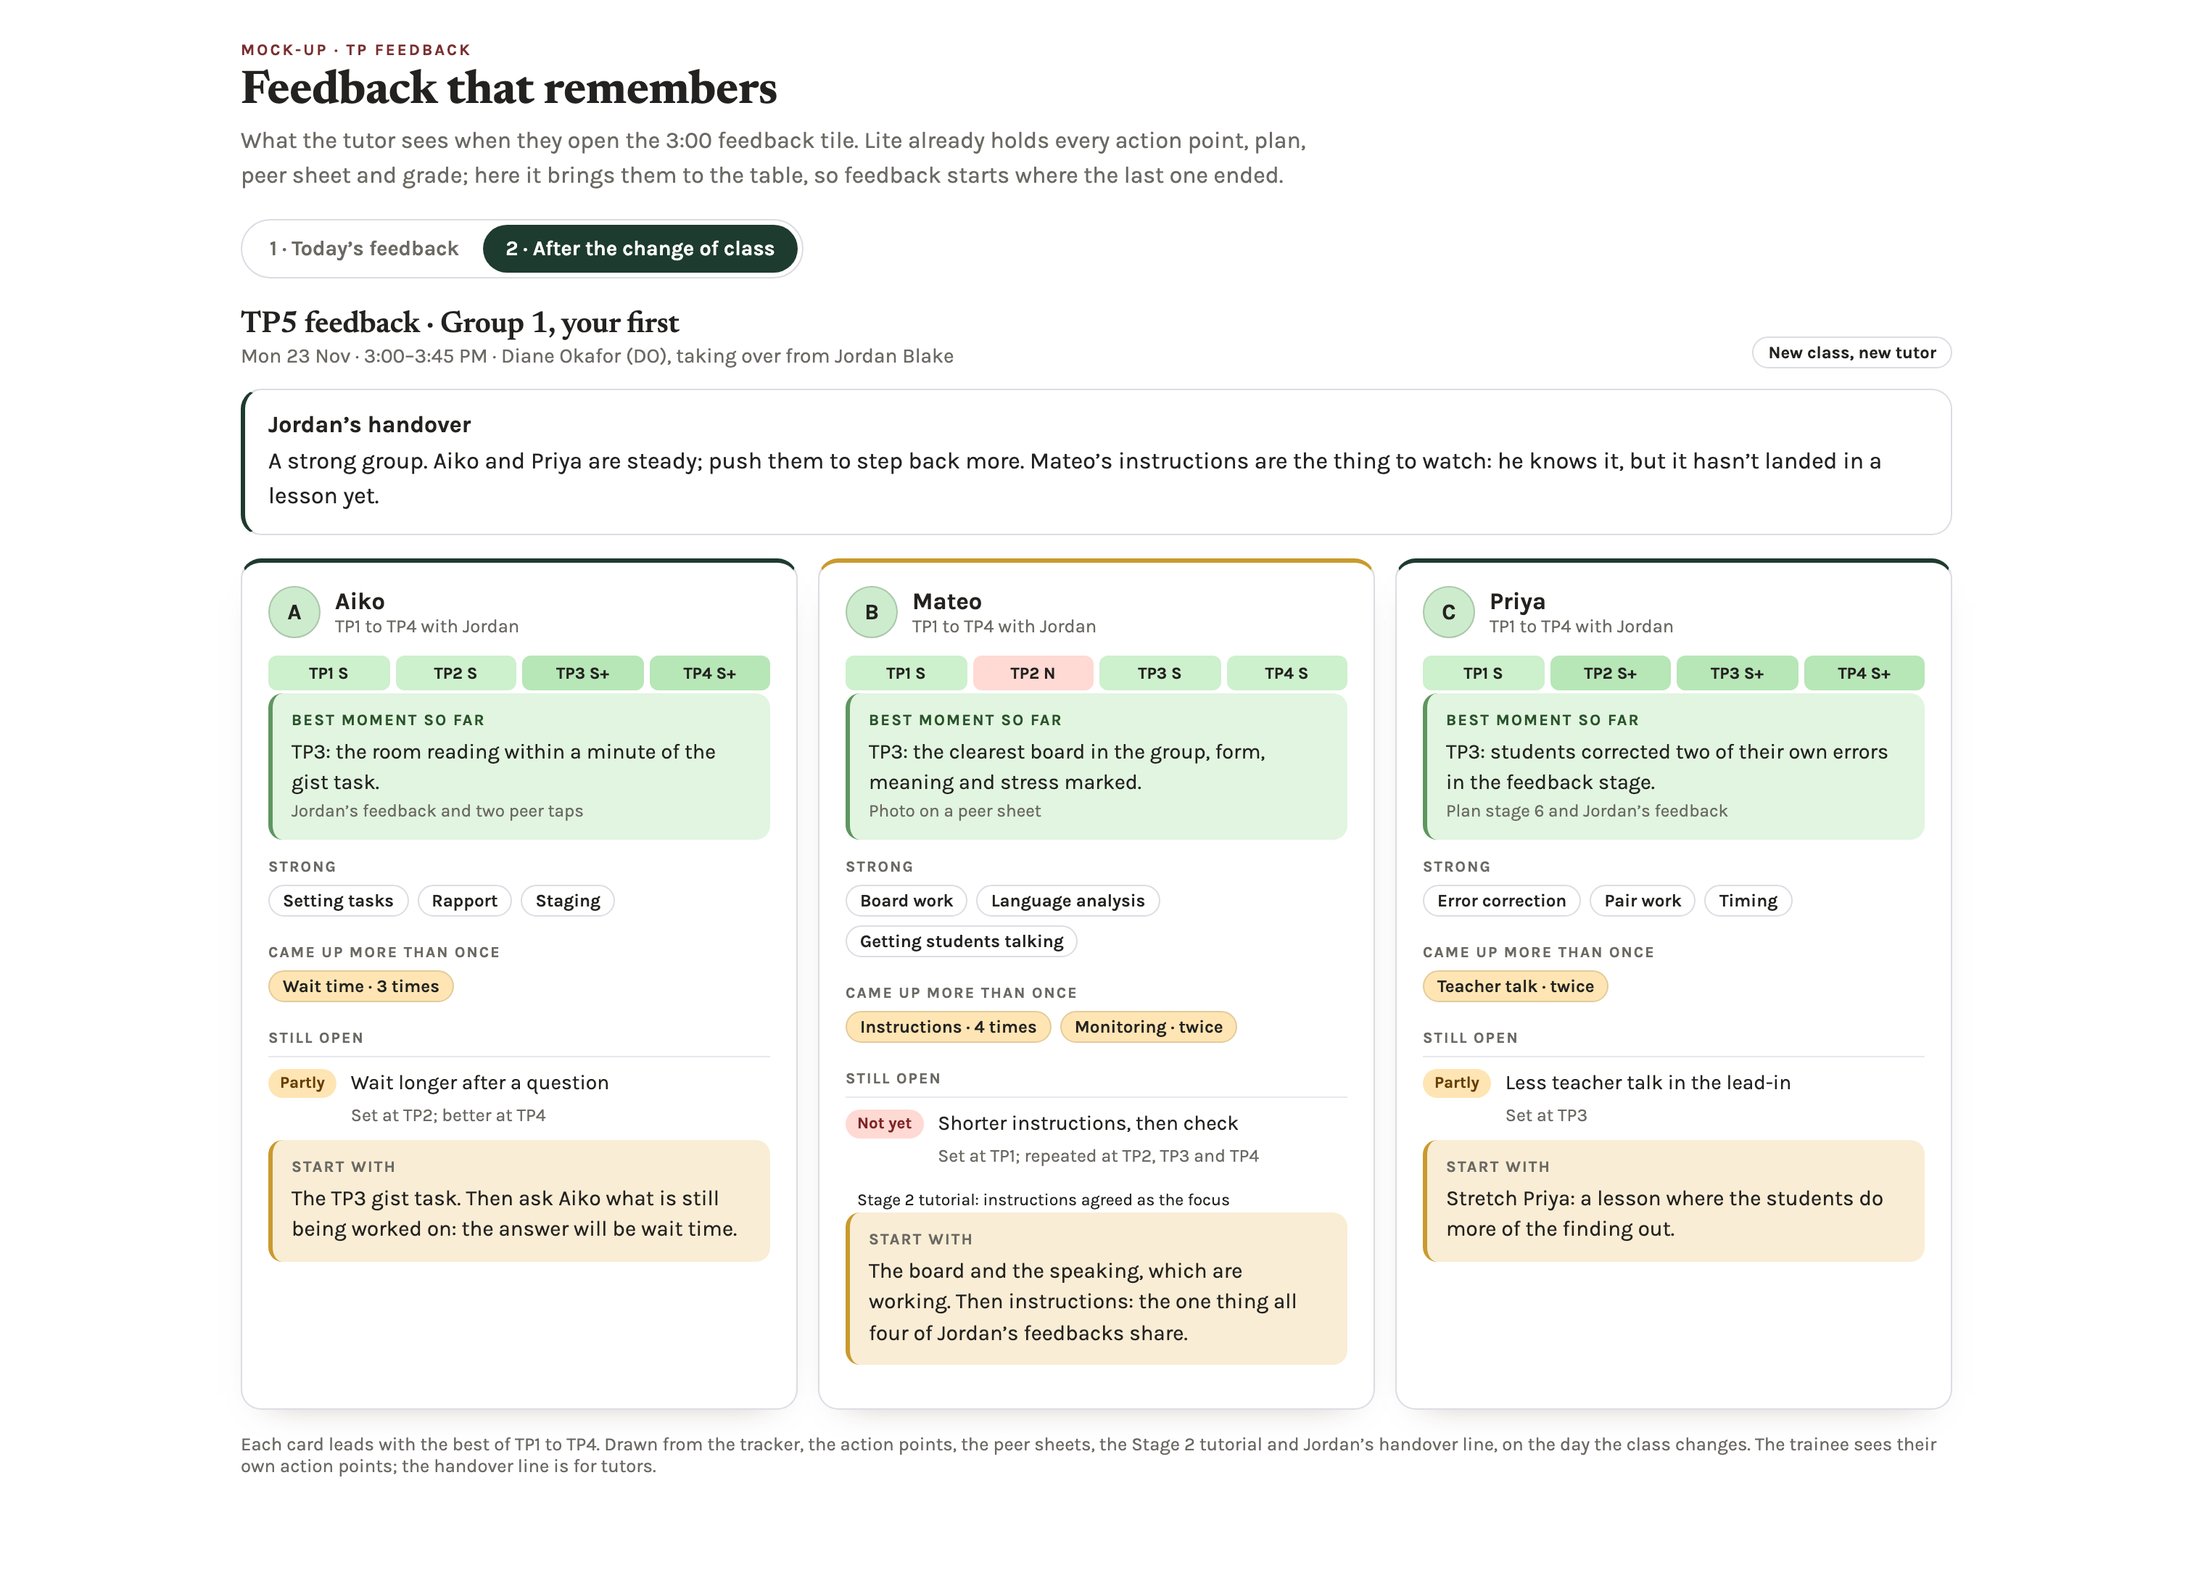
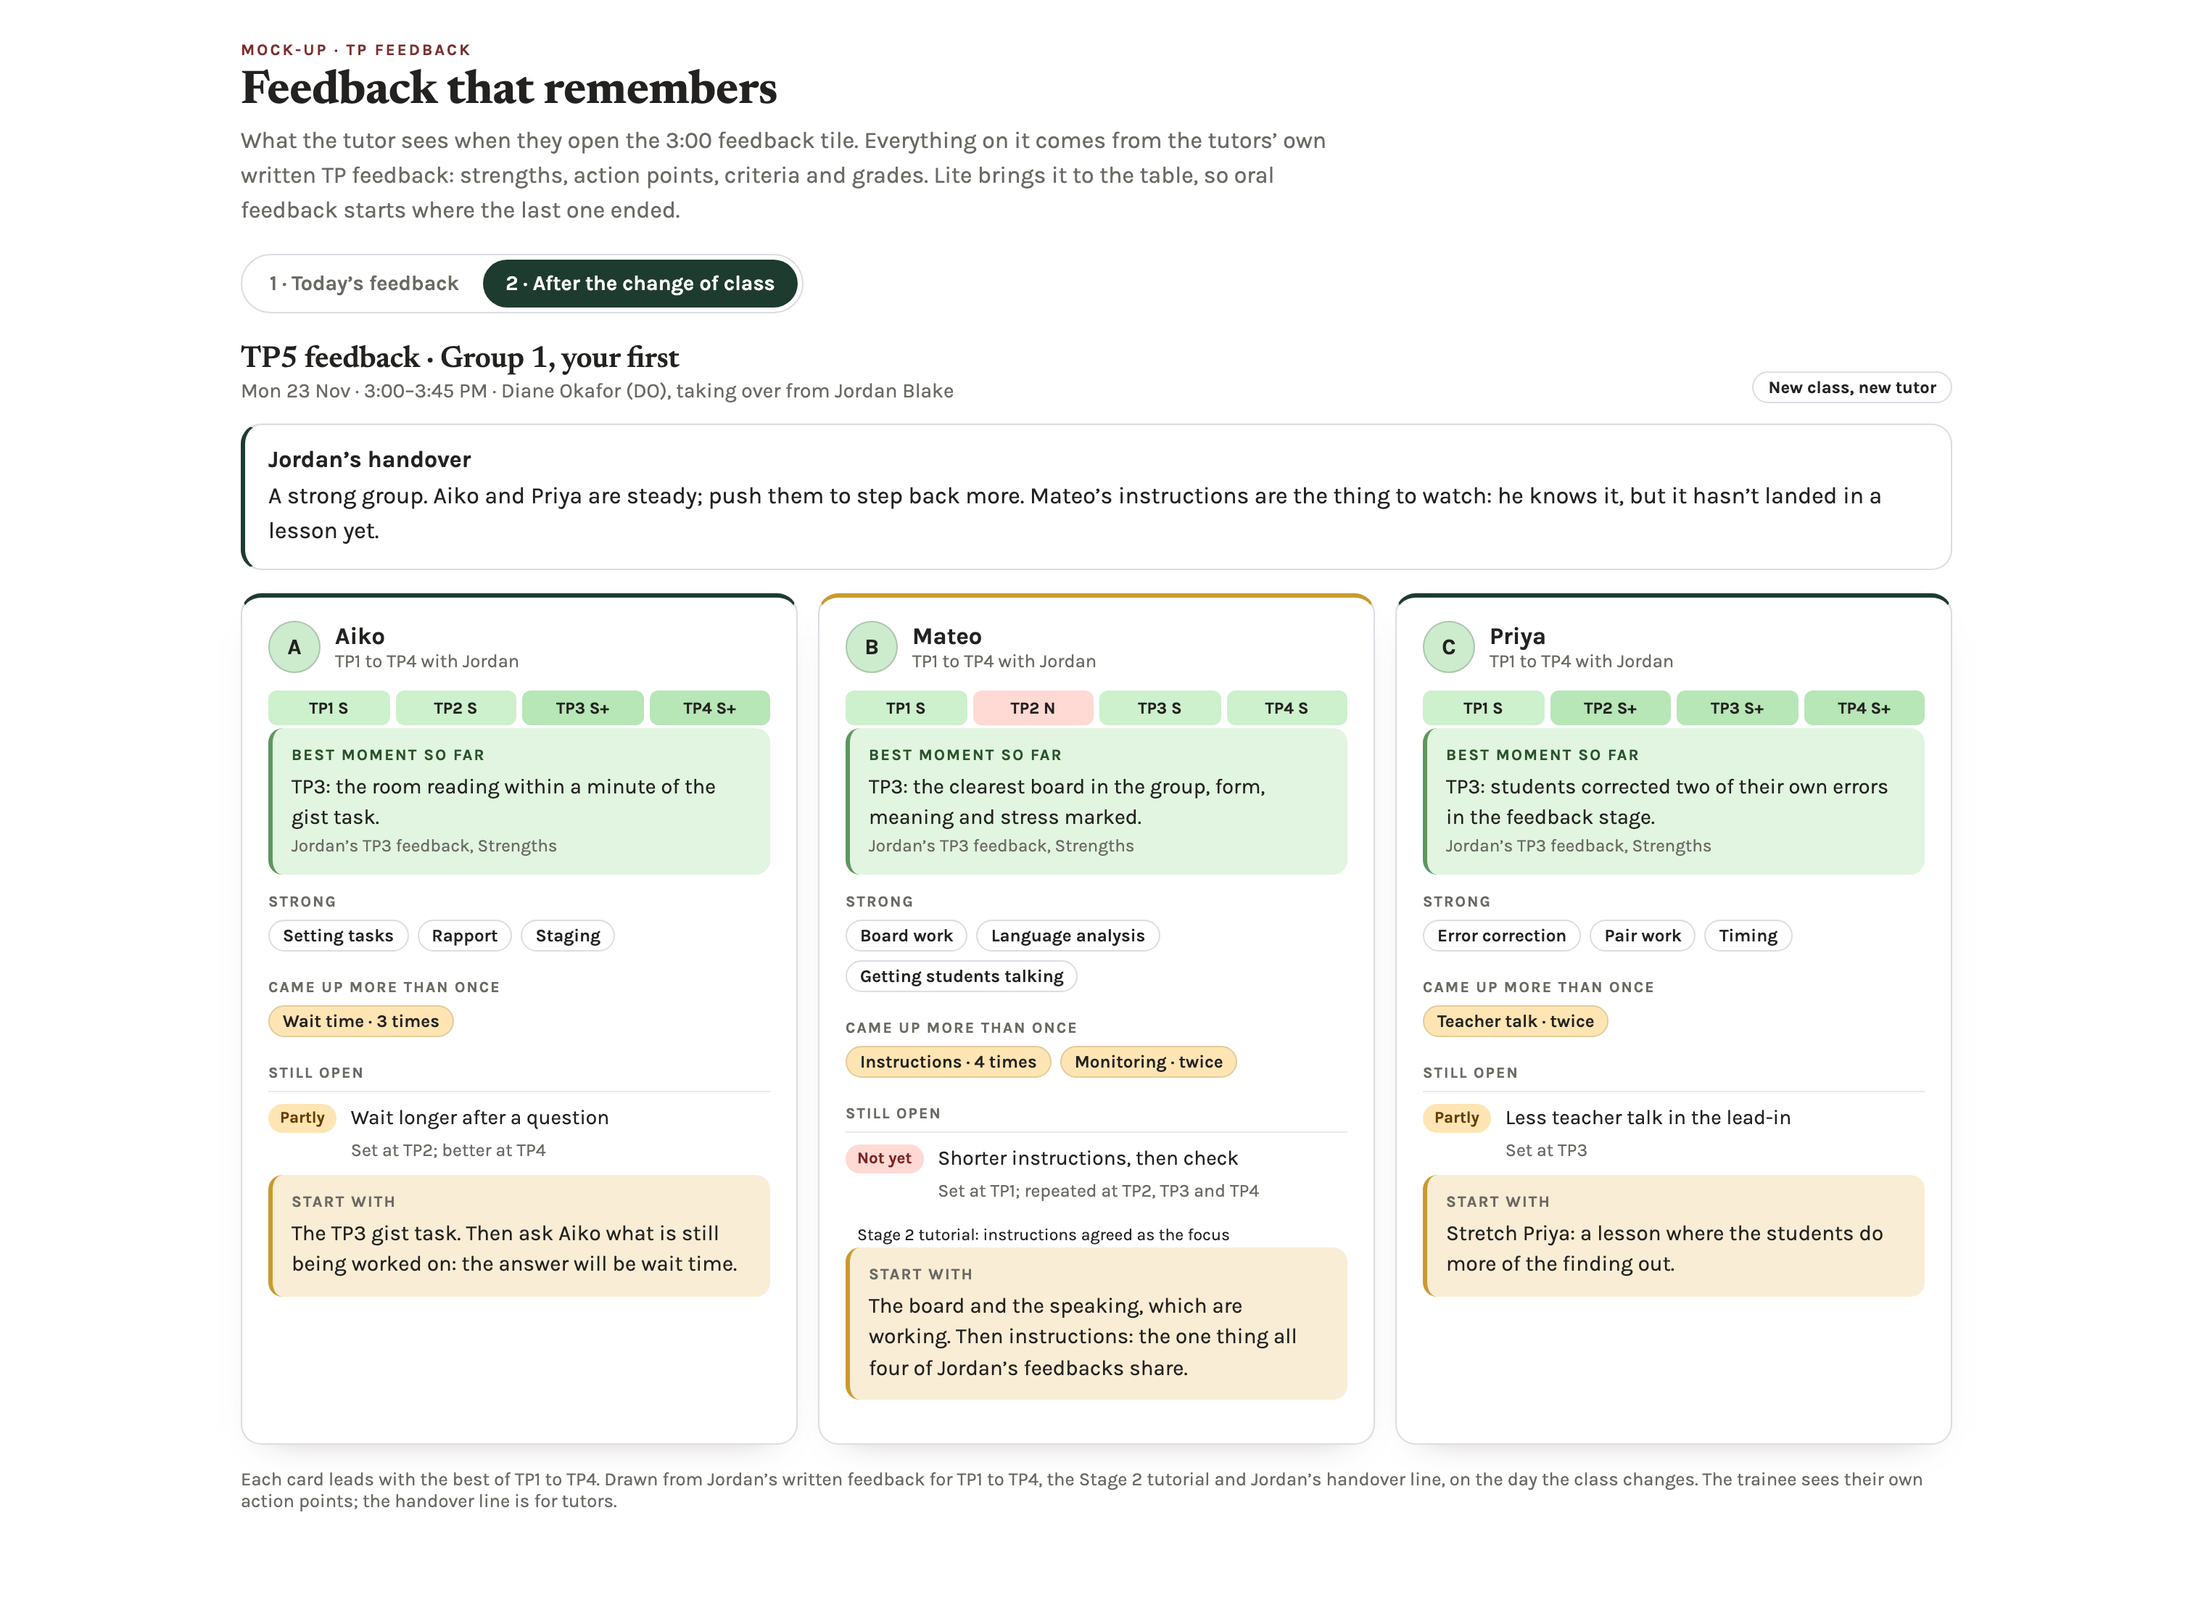
Mock-up: every line drawn from the tutors' written TP feedback (Ramy, 30 Oct 2026: "it's coming from the tutor's feedback"). Peer taps and volunteers' answers taken out.

Changed region(s): [[0.0933, 0.0312, 0.9015, 0.875], [0.0933, 0.9062, 0.8704, 0.9375], [0.8082, 0.2188, 0.9015, 0.25]]

diff --git a/docs/mockups/feedback-remembers.html b/docs/mockups/feedback-remembers.html
@@ -69,51 +69,51 @@
 <div class="wrap">
   <p class="eyebrow">Mock-up · TP feedback</p>
   <h1>Feedback that remembers</h1>
-  <p class="lede">What the tutor sees when they open the 3:00 feedback tile. Lite already holds every action point, plan, peer sheet and grade; here it brings them to the table, so feedback starts where the last one ended.</p>
+  <p class="lede">What the tutor sees when they open the 3:00 feedback tile. Everything on it comes from the tutors’ own written TP feedback: strengths, action points, criteria and grades. Lite brings it to the table, so oral feedback starts where the last one ended.</p>
   <div class="seg" role="tablist"><button class="on" data-v="v1">1 · Today’s feedback</button><button data-v="v2">2 · After the change of class</button></div>
 
   <!-- 1 -->
   <section class="view on" id="v1">
     <div class="head"><div><h2>TP3 feedback · Group 1</h2><div class="meta">Wed 11 Nov · 3:00–3:45 PM · Jordan Blake (JB)</div></div><span class="chip">Three taught today</span></div>
-    <div class="group"><b>The whole group first</b><span><span class="plus">All three</span> had the students talking more than half the lesson, up from a third at TP1. And all three lost the meaning check before practice: five minutes on it together, then each lesson.</span></div>
+    <div class="group"><b>The whole group first</b><span><span class="plus">All three</span> have “student talk” in today’s strengths, for the first time. And all three have “checking meaning” in today’s action points: five minutes on it together, then each lesson.</span></div>
     <div class="grid">
       <article class="card">
         <div class="who"><span class="av">A</span><div><b>Aiko</b><span>Taught 11:30 · Reading for gist</span></div></div>
-        <div class="good"><b>What worked</b><ul><li>The gist task was set before the text came out, and the room was reading within a minute.<small>Your action point from TP2, met · two peer taps: “clear”</small></li><li>The students laughed at the lead-in photo and talked straight away.<small>Volunteers: 6 of 6 “I wanted to read it”</small></li></ul></div>
+        <div class="good"><b>What worked</b><ul><li>The gist task was set before the text came out, and the room was reading within a minute.<small>Today’s feedback, Strengths · was the TP2 action point</small></li><li>The lead-in photo got the students talking straight away.<small>Today’s feedback, Strengths</small></li></ul></div>
         <div class="lbl">Last three action points</div>
-        <div class="ap"><span class="st met">Met</span><div>Set the task before handing out the text</div><small>Plan stage 3 and two peer taps at minute 6: “clear”</small></div>
-        <div class="ap"><span class="st part">Partly</span><div>Wait longer after a question</div><small>Better in the lead-in; rushed again in feedback</small></div>
-        <div class="ap"><span class="st not">Not yet</span><div>Check meaning before practice</div><small>Planned 4 minutes; peers felt it end at minute 1</small></div>
+        <div class="ap"><span class="st met">Met</span><div>Set the task before handing out the text</div><small>Set in TP2 feedback · today’s feedback: met</small></div>
+        <div class="ap"><span class="st part">Partly</span><div>Wait longer after a question</div><small>Set in TP1 feedback · today’s notes: better in the lead-in, rushed in feedback</small></div>
+        <div class="ap"><span class="st not">Not yet</span><div>Check meaning before practice</div><small>Set in TP2 feedback · today’s notes: skipped before practice</small></div>
         <div class="open next"><b>Next step</b>Keep the quiet start. Now give meaning the same care.</div>
         <div class="lbl">Today’s action point</div>
         <textarea>Ask two concept questions before the practice task, and wait for an answer to each.</textarea>
       </article>
       <article class="card flag">
         <div class="who"><span class="av">B</span><div><b>Mateo</b><span>Taught 12:15 · Functional language</span></div></div>
-        <div class="good"><b>What worked</b><ul><li>The target language on the board was the clearest in the group: form, meaning and stress marked.<small>Your action point from TP2, met · photo on a peer sheet</small></li><li>The role-play itself got everyone speaking once it started.<small>Peer taps at minute 22: “everyone talking”</small></li></ul></div>
+        <div class="good"><b>What worked</b><ul><li>The target language on the board was the clearest in the group: form, meaning and stress marked.<small>Today’s feedback, Strengths · was the TP2 action point</small></li><li>The role-play got everyone speaking once it started.<small>Today’s feedback, Strengths</small></li></ul></div>
         <div class="lbl">Last three action points</div>
-        <div class="ap"><span class="st not">Not yet</span><div>Shorter instructions, then check</div><small>Volunteers’ answers: 4 of 6 “not sure what to do”</small></div>
-        <div class="ap"><span class="st met">Met</span><div>Board the target language clearly</div><small>Photo of the board on a peer sheet</small></div>
-        <div class="ap"><span class="st part">Partly</span><div>Monitor the quieter pairs</div><small>Peers: stayed with the front table</small></div>
+        <div class="ap"><span class="st not">Not yet</span><div>Shorter instructions, then check</div><small>Set in TP1 and TP2 feedback · today’s notes: students unsure at the start of the role-play</small></div>
+        <div class="ap"><span class="st met">Met</span><div>Board the target language clearly</div><small>Set in TP2 feedback · today’s feedback: met</small></div>
+        <div class="ap"><span class="st part">Partly</span><div>Monitor the quieter pairs</div><small>Set in TP2 feedback · today’s notes: stayed with the front table</small></div>
         <div class="ev"><span>Same point twice: instructions</span></div>
-        <div class="open next"><b>Next step</b>The activity works; the way in is the problem. 4 of 6 students weren’t sure what to do at first. Try it: give the role-play instructions in three short lines.</div>
+        <div class="open next"><b>Next step</b>The activity works; the way in is the problem. Try it: give the role-play instructions in three short lines.</div>
         <div class="lbl">Today’s action point</div>
         <textarea placeholder="One thing for TP4"></textarea>
       </article>
       <article class="card">
         <div class="who"><span class="av">C</span><div><b>Priya</b><span>Taught 1:15 · Speaking</span></div></div>
-        <div class="good"><b>What worked</b><ul><li>Delayed error correction had a stage of its own: three errors boarded, two corrected by the students themselves.<small>Your action point from TP2, met · plan stage 6</small></li><li>Pairs were set before the task, so the change-over took seconds.<small>Two peer taps: “smooth”</small></li><li>The students rated the speaking task the best part.<small>Volunteers: 5 of 6</small></li></ul></div>
+        <div class="good"><b>What worked</b><ul><li>Delayed error correction had a stage of its own: three errors boarded, two corrected by the students themselves.<small>Today’s feedback, Strengths · was the TP2 action point</small></li><li>Pairs were set before the task, so the change-over took seconds.<small>Today’s feedback, Strengths</small></li></ul></div>
         <div class="lbl">Last three action points</div>
-        <div class="ap"><span class="st met">Met</span><div>Delayed error correction as its own stage</div><small>Plan stage 6, timed 5 minutes; taught in 6</small></div>
-        <div class="ap"><span class="st met">Met</span><div>Pair students before giving the task</div><small>Two peer taps: “smooth”</small></div>
-        <div class="ap"><span class="st part">Partly</span><div>Less teacher talk in the lead-in</div><small>Lead-in ran 9 minutes against 5 planned</small></div>
-        <div class="open next"><b>Next step</b>A strong lesson. Win back those four minutes in the lead-in and give them to the speaking.</div>
+        <div class="ap"><span class="st met">Met</span><div>Delayed error correction as its own stage</div><small>Set in TP2 feedback · today’s feedback: met</small></div>
+        <div class="ap"><span class="st met">Met</span><div>Pair students before giving the task</div><small>Set in TP1 feedback · today’s feedback: met</small></div>
+        <div class="ap"><span class="st part">Partly</span><div>Less teacher talk in the lead-in</div><small>Set in TP3 feedback · today’s notes: lead-in still long</small></div>
+        <div class="open next"><b>Next step</b>A strong lesson. Shorten the lead-in and give the time to the speaking.</div>
         <div class="lbl">Today’s action point</div>
         <textarea placeholder="One thing for TP4"></textarea>
       </article>
     </div>
     <div class="row"><button class="btn go">Save the feedback</button><button class="btn">Show the group what went well</button></div>
-    <p class="fine">Every card opens on what worked, with what showed it. The action points go on each trainee’s next lesson plan and open their next feedback. Trainees see their own, never each other’s.</p>
+    <p class="fine">Every card opens on the strengths in today’s feedback, and says where each line comes from. The action points go on each trainee’s next lesson plan and open their next feedback. Trainees see their own, never each other’s.</p>
   </section>
 
   <!-- 2 -->
@@ -124,7 +124,7 @@
       <article class="card">
         <div class="who"><span class="av">A</span><div><b>Aiko</b><span>TP1 to TP4 with Jordan</span></div></div>
         <div class="tps"><div class="g-s">TP1 S</div><div class="g-s">TP2 S</div><div class="g-sp">TP3 S+</div><div class="g-sp">TP4 S+</div></div>
-        <div class="good"><b>Best moment so far</b>TP3: the room reading within a minute of the gist task.<small>Jordan’s feedback and two peer taps</small></div>
+        <div class="good"><b>Best moment so far</b>TP3: the room reading within a minute of the gist task.<small>Jordan’s TP3 feedback, Strengths</small></div>
         <div class="lbl">Strong</div><span class="pill">Setting tasks</span><span class="pill">Rapport</span><span class="pill">Staging</span>
         <div class="lbl">Came up more than once</div><span class="pill rep">Wait time · 3 times</span>
         <div class="lbl">Still open</div>
@@ -134,7 +134,7 @@
       <article class="card flag">
         <div class="who"><span class="av">B</span><div><b>Mateo</b><span>TP1 to TP4 with Jordan</span></div></div>
         <div class="tps"><div class="g-s">TP1 S</div><div class="g-n">TP2 N</div><div class="g-s">TP3 S</div><div class="g-s">TP4 S</div></div>
-        <div class="good"><b>Best moment so far</b>TP3: the clearest board in the group, form, meaning and stress marked.<small>Photo on a peer sheet</small></div>
+        <div class="good"><b>Best moment so far</b>TP3: the clearest board in the group, form, meaning and stress marked.<small>Jordan’s TP3 feedback, Strengths</small></div>
         <div class="lbl">Strong</div><span class="pill">Board work</span><span class="pill">Language analysis</span><span class="pill">Getting students talking</span>
         <div class="lbl">Came up more than once</div><span class="pill rep">Instructions · 4 times</span><span class="pill rep">Monitoring · twice</span>
         <div class="lbl">Still open</div>
@@ -145,7 +145,7 @@
       <article class="card">
         <div class="who"><span class="av">C</span><div><b>Priya</b><span>TP1 to TP4 with Jordan</span></div></div>
         <div class="tps"><div class="g-s">TP1 S</div><div class="g-sp">TP2 S+</div><div class="g-sp">TP3 S+</div><div class="g-sp">TP4 S+</div></div>
-        <div class="good"><b>Best moment so far</b>TP3: students corrected two of their own errors in the feedback stage.<small>Plan stage 6 and Jordan’s feedback</small></div>
+        <div class="good"><b>Best moment so far</b>TP3: students corrected two of their own errors in the feedback stage.<small>Jordan’s TP3 feedback, Strengths</small></div>
         <div class="lbl">Strong</div><span class="pill">Error correction</span><span class="pill">Pair work</span><span class="pill">Timing</span>
         <div class="lbl">Came up more than once</div><span class="pill rep">Teacher talk · twice</span>
         <div class="lbl">Still open</div>
@@ -153,7 +153,7 @@
         <div class="open"><b>Start with</b>Stretch Priya: a lesson where the students do more of the finding out.</div>
       </article>
     </div>
-    <p class="fine">Each card leads with the best of TP1 to TP4. Drawn from the tracker, the action points, the peer sheets, the Stage 2 tutorial and Jordan’s handover line, on the day the class changes. The trainee sees their own action points; the handover line is for tutors.</p>
+    <p class="fine">Each card leads with the best of TP1 to TP4. Drawn from Jordan’s written feedback for TP1 to TP4, the Stage 2 tutorial and Jordan’s handover line, on the day the class changes. The trainee sees their own action points; the handover line is for tutors.</p>
   </section>
 </div>
 <script>
